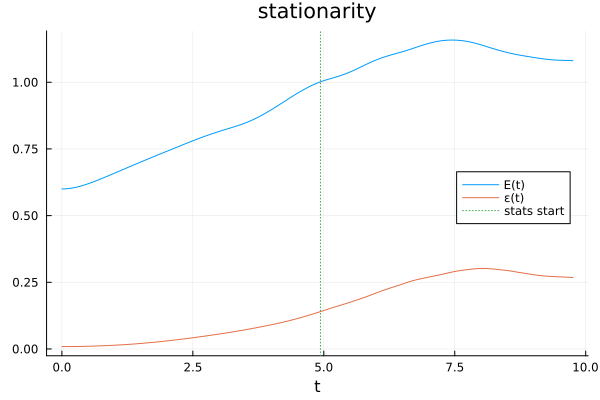
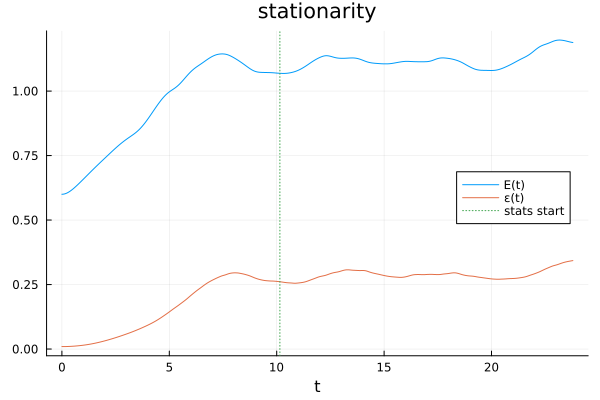
fix(examples): stationary HIT statistics — clear the overshoot, average over the oscillation, conservative CFL
The band-rescaling forcing from a low-energy IC makes E(t) overshoot then oscillate about its mean (~7-turnover period) rather than settle flat, and the old n_spinup=800 collected statistics over the startup transient (flagged: 'not stationary at all'). Fix: spin up past the overshoot and time-average over several oscillation periods. The statistics-window Δt is frozen (uniform Lagrangian axis), so a conservative CFL (0.3) + resolution margin keeps a long run from hitting a velocity peak the frozen Δt cannot handle — which otherwise blows up and crashes particle advection (illegal address).

huge (192-cubed): ν=3.2e-3, cfl=0.3, n_spinup=3300, n_stats=4700 → Re_λ≈93, k_max·η≈1.13, ≈34 ms/step; the stats window spans ~2 oscillation periods with E(t) fluctuating about a constant mean (verified on an RX 6700 XT). mega (256-cubed): the verified cfl=0.4 / n_stats=1200 config (Re_λ≈109), with a note that a longer 256-cubed window needs the same CFL care.

Refresh the committed Fig. A.1 / spectrum / stationarity / autocorrelation figures from the stationary 192-cubed run; update all Re_λ / k_max·η / ms-step citations (README, HIST_CPU, ARCHITECTURE decision 24, PERFORMANCE finding f).

diff --git a/examples/README.md b/examples/README.md
@@ -33,7 +33,7 @@ written and what keeps the GPU twin hassle-free.
 ```sh
 julia --project=examples examples/HIST_CPU.jl            # full run (default 32³, ~1 min)
 julia --project=examples examples/HIST_CPU.jl --fast     # 64³, nicer statistics
-julia --project=examples examples/HIST_CPU.jl --huge     # 192³, Re_λ≈98 (heavy; minutes)
+julia --project=examples examples/HIST_CPU.jl --huge     # 192³, Re_λ≈93 (heavy; minutes)
 julia -t8 --project=examples examples/HIST_CPU.jl --fast  # 8 CPU threads (matters most at N ≥ 64)
 julia --project=examples examples/HIST_CPU.jl --smoke    # tiny, ~seconds, for a quick check
 julia --project=examples examples/plot_hist.jl examples/output/HIST_CPU.h5   # re-plot saved data, no re-run
@@ -94,7 +94,7 @@ log-midpoint proxy `√(τ_η·τ_u)` — so it needs no acceleration statistics
 
 At the default **32³** (`Re_λ ≈ 16`) there is essentially no inertial range, so the normalized curves
 form a hump rather than a plateau, and `λ ≈ L` (the scales have not separated) — expected, not a bug.
-**`--huge` (192³, `Re_λ ≈ 98`)** separates them cleanly (`λ/η ≈ 19`, `L/η ≈ 45`) and the Eulerian curve
+**`--huge` (192³, `Re_λ ≈ 93`)** separates them cleanly (`λ/η ≈ 19`, `L/η ≈ 43`) and the Eulerian curve
 approaches the plateau. The `spectrum` concentrates energy at large scales and falls through the
 dissipation range; `E(t)`, `ε(t)` are statistically steady past the spin-up.
 
@@ -142,7 +142,7 @@ index inside a package method *throws* — invariant 6 enforced, not trusted. De
 
 ```sh
 julia --project=examples/gpu/rocm -e 'using Pkg; Pkg.instantiate()'         # one-time (installs AMDGPU)
-julia --project=examples/gpu/rocm examples/gpu/rocm/HIST_ROCm.jl --huge     # 192³ Float32, Re_λ≈98
+julia --project=examples/gpu/rocm examples/gpu/rocm/HIST_ROCm.jl --huge     # 192³ Float32, Re_λ≈93
 julia --project=examples/gpu/rocm examples/gpu/rocm/HIST_ROCm.jl --fast     # 64³
 julia --project=examples/gpu/rocm examples/gpu/rocm/HIST_ROCm.jl --smoke    # quick check
 ```
@@ -151,8 +151,8 @@ julia --project=examples/gpu/rocm examples/gpu/rocm/HIST_ROCm.jl --smoke    # qu
 over a preallocated workspace and the package's in-place operators are allocation-free (the spectral
 operators allocate ~0 bytes — `docs/ARCHITECTURE.md` decision 24), the run creates **no per-step
 garbage**: the AMDGPU memory pool stays flat, with **no manual `GC.gc()` / `reclaim`** and no wedge. A
-representative **192³ Float32** run on an RX 6700 XT (12 GB) reaches `Re_λ ≈ 98`, `k_max·η ≈ 1.1`
-(resolved), and sustains **≈ 42 ms/step** (2000 steps, ≈ 83 s of simulation), with the spectral-`inner`
+representative **192³ Float32** run on an RX 6700 XT (12 GB) reaches `Re_λ ≈ 93`, `k_max·η ≈ 1.13`
+(resolved), and sustains **≈ 34 ms/step** (8000 steps, ≈ 270 s of simulation), with the spectral-`inner`
 Parseval check matching the physical energy to all printed digits and `‖∇·u‖_rel ≈ 1e-8` (Float32
 roundoff). At fixed forcing the Reynolds number is set by `ν`, not the grid, so 192³ already gives the
 scale separation; a larger grid only adds dissipation-range resolution, at more memory (192³ is a

diff --git a/docs/PERFORMANCE.md b/docs/PERFORMANCE.md
@@ -171,8 +171,8 @@ until VRAM fills and the run wedges (allocator spinning, GPU idle) or `hipMalloc
 the component broadcasts — each now allocates ``\sim 0`` bytes in place (measured; guarded by
 `test/allocations.jl`), with identical results. Payoff: a **preallocated, in-place** pseudospectral DNS
 step allocates nothing per step → **no manual `GC.gc()`/`reclaim`, flat VRAM**. The forced-HIT example
-(`examples/gpu/rocm/HIST_ROCm.jl`, 192³ `Float32`, ``Re_\lambda \approx 98``) sustains **≈ 42 ms/step**
-(2000 steps, ≈ 83 s) on the RX 6700 XT this way. *Discipline for consumers:* preallocate a workspace and
+(`examples/gpu/rocm/HIST_ROCm.jl`, 192³ `Float32`, ``Re_\lambda \approx 93``) sustains **≈ 34 ms/step**
+(8000 steps, ≈ 270 s) on the RX 6700 XT this way. *Discipline for consumers:* preallocate a workspace and
 use the `!` forms with a destination distinct from the sources; the fiber `norm`/`lpnorm`/`dev!`
 deliberately materialize one field and are the exceptions (use `maximum(abs, …)` for a CFL speed).
 [Decision 24.]

diff --git a/docs/ARCHITECTURE.md b/docs/ARCHITECTURE.md
@@ -1293,7 +1293,7 @@ notes (e.g. the CPU threading and the interpolation layer) rather than contradic
     Net: each of the three now allocates ``\sim 0`` bytes in place (measured), with identical arithmetic
     and results (the full suite is unchanged) — so a preallocated, in-place pseudospectral step allocates
     nothing per step and runs on a 12 GB consumer GPU with **no manual `GC.gc()` / `reclaim`, at flat
-    VRAM** (the `examples/` HIST solvers demonstrate this — ``192^3`` Float32 at ``\sim\!42`` ms/step on
+    VRAM** (the `examples/` HIST solvers demonstrate this — ``192^3`` Float32 at ``\sim\!34`` ms/step on
     an RX 6700 XT). Guarded by `test/allocations.jl` (every in-place spectral operator, transform,
     `convolve!`, and fiber product/shuffle, both element types). The fiber norm, `lpnorm` and `dev!`
     deliberately materialize one field (a pointwise magnitude, or the trace they subtract) and are the
